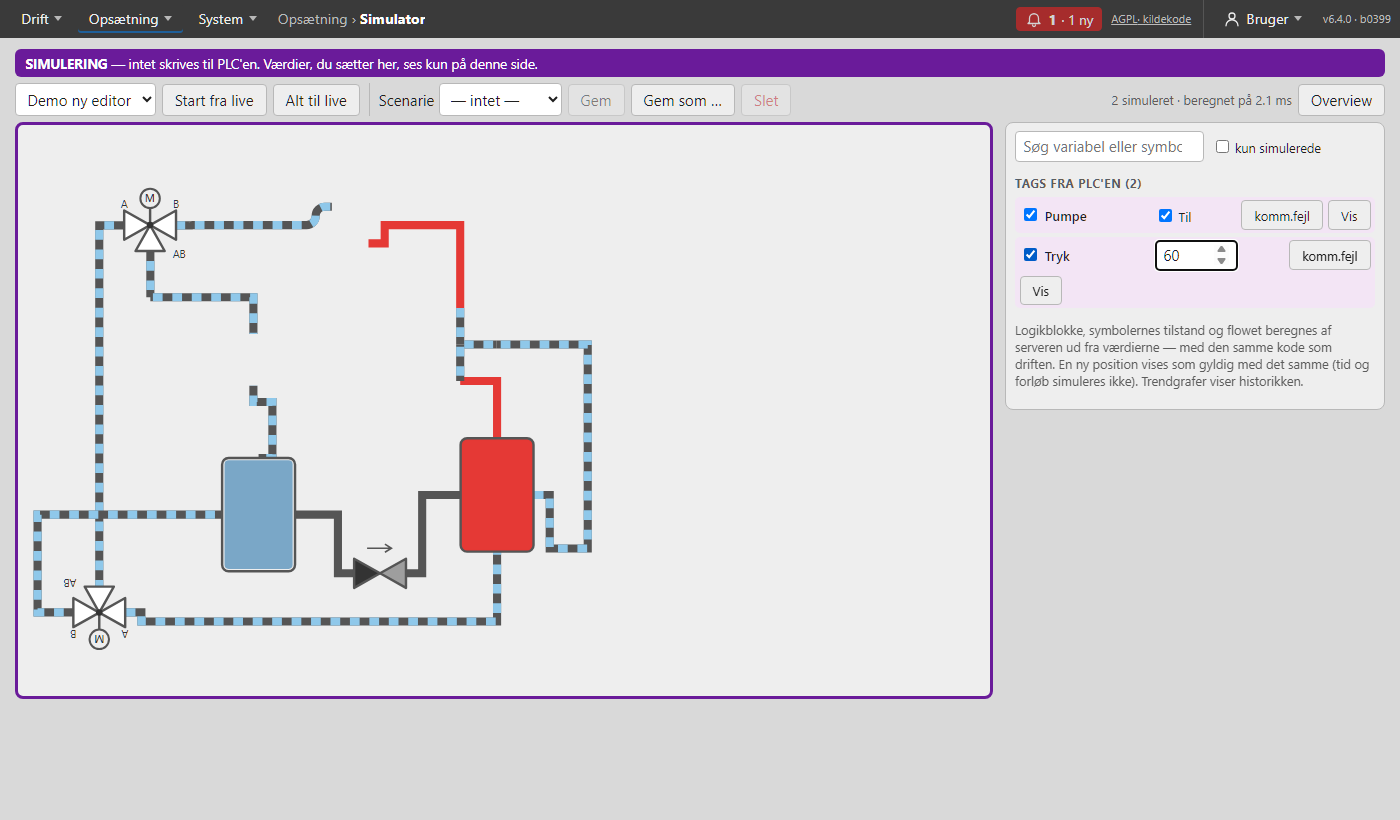
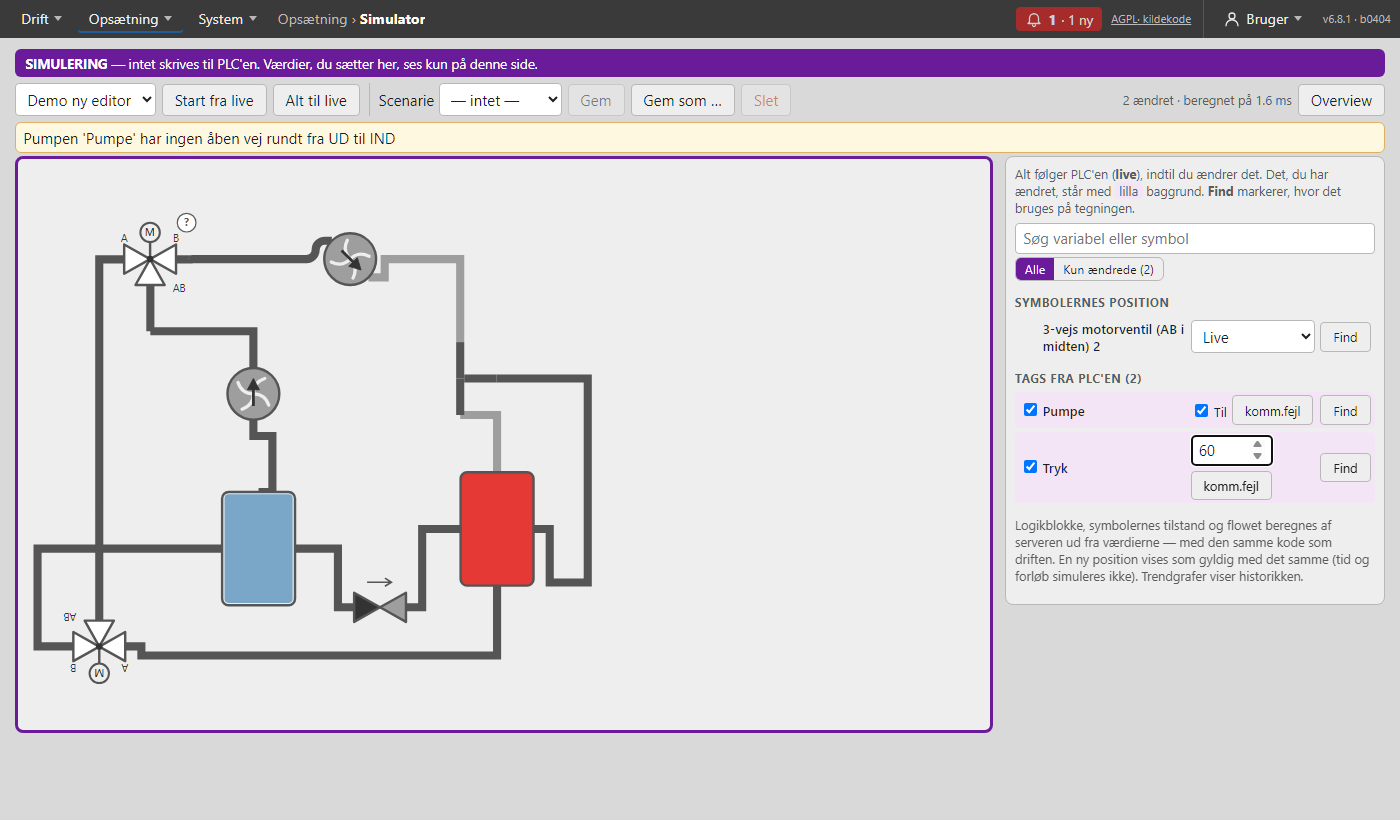
v6.8.1-b0404: fix — "Over 0"/"0" med ekstra grænser, meddelelser pr. tegning (advarsel gentages ikke), ryddelige animationsfarver og simulator-panel

diff --git a/frontend/src/pages/Simulator.svelte b/frontend/src/pages/Simulator.svelte
@@ -228,7 +228,7 @@
   <button onclick={saveAs} disabled={!drawingId}>Gem som …</button>
   <button class="danger" onclick={removeScenario} disabled={scenarioId === ''}>Slet</button>
   <span class="grow"></span>
-  {#if result}<span class="small muted">{nSim} simuleret · beregnet på {result.ms} ms</span>{/if}
+  {#if result}<span class="small muted">{nSim} ændret · beregnet på {result.ms} ms</span>{/if}
   <a class="btn" href={'#overview/' + drawingId}>Overview</a>
 </div>
 {#if error}<p class="msg err">{error}</p>{/if}
@@ -240,21 +240,27 @@
   <div class="drawing" bind:this={container}></div>
 
   <aside class="panel-sim" aria-label="Tegningens variabler">
-    <div class="row">
-      <input type="search" placeholder="Søg variabel eller symbol" bind:value={search} aria-label="Søg" />
-      <label class="opt small"><input type="checkbox" bind:checked={onlySim} /> kun simulerede</label>
+    <!-- v6.8.1 (Jan: "hvad er op og ned … hvad dækker kun simulerede over"): forklaring øverst, filteret hedder det, det gør -->
+    <p class="small muted intro">Alt følger PLC'en (<strong>live</strong>), indtil du ændrer det. Det, du har ændret, står med
+      <span class="chip">lilla</span> baggrund. <strong>Find</strong> markerer, hvor det bruges på tegningen.</p>
+    <input type="search" placeholder="Søg variabel eller symbol" bind:value={search} aria-label="Søg" />
+    <div class="seg" role="radiogroup" aria-label="Vis">
+      <button class:cur={!onlySim} role="radio" aria-checked={!onlySim} onclick={() => (onlySim = false)}>Alle</button>
+      <button class:cur={onlySim} role="radio" aria-checked={onlySim} onclick={() => (onlySim = true)} title="Kun de variabler og positioner, du har ændret (de andre følger PLC'en)">Kun ændrede ({nSim})</button>
     </div>
     {#if vars}
       {#if vars.positions.length}
         <h4>Symbolernes position</h4>
         {#each shownPos as p (p.element)}
           <div class="var" class:on={p.element in sim.positions}>
+            <span></span>
             <span class="nm" title={p.element}>{p.name}</span>
-            <select value={sim.positions[p.element] ?? ''} onchange={(e) => setPos(p.element, e.currentTarget.value)} aria-label="{p.name}: position">
-              <option value="">Live{p.live !== null ? ` (${p.labels[p.live] ?? p.live})` : ''}</option>
+            <select value={sim.positions[p.element] ?? ''} onchange={(e) => setPos(p.element, e.currentTarget.value)} aria-label="{p.name}: position"
+              title="Live = følger PLC'en (efter kolon: positionen lige nu). Vælg en position for at simulere den">
+              <option value="">Live{p.live !== null ? `: ${p.labels[p.live] ?? p.live}` : ''}</option>
               {#each p.labels as l, j (j)}<option value={j}>{l || `Position ${j + 1}`}{p.states?.[j] && p.states[j] !== l ? ` (${p.states[j]})` : ''}</option>{/each}
             </select>
-            <button class="small" onclick={() => highlight([p.element])} title="Vis symbolet på tegningen">Vis</button>
+            <button class="small" onclick={() => highlight([p.element])} title="Markér symbolet på tegningen">Find</button>
           </div>
         {/each}
       {/if}
@@ -267,6 +273,7 @@
           <label class="opt sw" title={on ? 'Simuleret — tryk for at følge PLC\'en igen' : 'Følger PLC\'en — tryk for at simulere'}>
             <input type="checkbox" checked={on} onchange={(e) => setSim(t.name, e.currentTarget.checked, t)} aria-label="{t.name}: simulér" /></label>
           <span class="nm" title={[t.description, `PLC: ${t.plc}`, ...t.used].filter(Boolean).join('\n')}>{t.name}</span>
+          <span class="vals">
           {#if !on}
             <span class="live small muted">live: {liveText(t.live, t.unit)}</span>
           {:else if v === null}
@@ -283,9 +290,9 @@
             {/if}
             {#if t.unit}<span class="small muted">{t.unit}</span>{/if}
           {/if}
-          <span class="grow"></span>
           {#if on && v !== null}<button class="small" onclick={() => setValue(t.name, null)} title="Simulér en kommunikationsfejl på tagget">komm.fejl</button>{/if}
-          <button class="small" onclick={() => highlight(t.elements)} disabled={!t.elements.length} title={t.used.join('\n')}>Vis</button>
+          </span>
+          <button class="small" onclick={() => highlight(t.elements)} disabled={!t.elements.length} title={`Markér på tegningen:\n${t.used.join('\n')}`}>Find</button>
         </div>
       {:else}<p class="small muted">Ingen tags{search || onlySim ? ' passer til søgningen' : ''}.</p>{/each}
 
@@ -296,11 +303,12 @@
           <div class="var" class:on>
             <label class="opt sw"><input type="checkbox" checked={on} onchange={(e) => setSim(a.name, e.currentTarget.checked)} aria-label="{a.tag}: simulér alarm" /></label>
             <span class="nm" title={a.used.join('\n')}>{a.tag} <span class="muted small">({a.kind === 'unack' ? 'ikke kvitteret' : 'aktiv'})</span></span>
+            <span class="vals">
             {#if on}
               <label class="opt small"><input type="checkbox" checked={sim.values[a.name] === true} onchange={(e) => setValue(a.name, e.currentTarget.checked)} /> {sim.values[a.name] ? 'Ja' : 'Nej'}</label>
             {:else}<span class="live small muted">live: {liveText(a.live)}</span>{/if}
-            <span class="grow"></span>
-            <button class="small" onclick={() => highlight(a.elements)} disabled={!a.elements.length}>Vis</button>
+            </span>
+            <button class="small" onclick={() => highlight(a.elements)} disabled={!a.elements.length} title="Markér på tegningen">Find</button>
           </div>
         {/each}
       {/if}
@@ -321,9 +329,18 @@
   .panel-sim { max-height: calc(100vh - 11rem); overflow: auto; border: 1px solid var(--line); border-radius: 8px; padding: .5rem .6rem;
     background: var(--panel, #fff); display: flex; flex-direction: column; gap: .25rem; }
   .panel-sim h4 { margin: .6rem 0 .2rem; font-size: .8rem; text-transform: uppercase; letter-spacing: .04em; color: var(--muted); }
-  .var { display: flex; align-items: center; gap: .35rem; padding: .2rem .3rem; border-radius: 5px; flex-wrap: wrap; }
+  /* v6.8.1: faste kolonner — afkrydsning, navn, værdi, Find — så rækkerne flugter og Find aldrig ryger ned på en ny linje */
+  .var { display: grid; grid-template-columns: 1.2rem minmax(6rem, 9.5rem) minmax(0, 1fr) auto; align-items: center; gap: .35rem;
+    padding: .2rem .3rem; border-radius: 5px; }
   .var.on { background: #f3e5f5; }
-  .var .nm { min-width: 7rem; font-weight: 600; font-size: .88rem; overflow-wrap: anywhere; }
+  .var .nm { font-weight: 600; font-size: .88rem; overflow-wrap: anywhere; }
+  .var select { min-width: 0; width: 100%; }
+  .vals { display: flex; align-items: center; gap: .35rem; flex-wrap: wrap; min-width: 0; }
+  .intro { margin: 0 0 .2rem; }
+  .chip { background: #f3e5f5; padding: 0 .3rem; border-radius: 4px; }
+  .seg { display: inline-flex; border: 1px solid var(--line); border-radius: 6px; overflow: hidden; align-self: flex-start; }
+  .seg button { border: none; border-radius: 0; background: transparent; padding: .2rem .6rem; font-size: .82rem; }
+  .seg button.cur { background: #6a1b9a; color: #fff; }
   .var .n { width: 5.5rem; }
   .var input[type='range'] { width: 7rem; }
   .sw { margin: 0; }

diff --git a/frontend/src/lib/AnimParams.svelte b/frontend/src/lib/AnimParams.svelte
@@ -44,21 +44,28 @@
     {#if (a.type === 'fill' || a.type === 'stroke')}
       {#if kind === 'pos'}
         {#each positions as pos, j}{@render colorInput(p.colors, j, pos.label)}{/each}
-      {:else}
-        {@render colorInput(p, 'on', kind === 'bool' ? 'Til' : p.at_least != null ? `≥ ${p.at_least}` : 'Over 0')}{@render colorInput(p, 'off', kind === 'bool' ? 'Fra' : p.at_least != null ? `< ${p.at_least}` : '0')}
-        {#if kind === 'num'}
-          <!-- v6.3.0 (Jan): hvornår et tal-tag er aktivt, fx ≥ 50 = aktiv, under 50 = ikke aktiv. Tomt = ≠ 0 -->
-          <label class="opt small" title="Fra hvilken værdi animationen er aktiv (aktiv-farven). Tomt: aktiv, når værdien ikke er 0">Aktiv når ≥
+      {:else if kind === 'num'}
+        <!-- v6.8.1 (Jan: "rodebutik"): én række pr. værdiområde — fra-farven, aktiv-farven og de ekstra grænser — i stigende orden.
+             Aktiv-grænsen (v6.3.0) står i aktiv-rækken: tom = aktiv, når værdien ikke er 0. -->
+        <div class="bands small">
+          <span class="bh">Værdi</span><span class="bh">Farve</span><span></span>
+          <span class="bv">{p.at_least != null ? `under ${p.at_least}` : '0'}</span>
+          <span class="bc"><input type="color" bind:value={p.off} aria-label="Farve, når den ikke er aktiv" />{@render swatches(p, 'off')}</span>
+          <span class="muted">ikke aktiv</span>
+          <span class="bv"><label class="opt" title="Fra hvilken værdi animationen er aktiv. Tomt: aktiv, når værdien ikke er 0">≥
             <input class="n" value={p.at_least ?? ''} placeholder="≠ 0" aria-label="Aktiv når værdien er mindst"
-              onchange={(e) => { const v = e.currentTarget.value.trim(); p.at_least = v === '' ? null : num(v, p.at_least ?? 0); }} /></label>
-        {/if}
-        {#if kind === 'num'}
+              onchange={(e) => { const v = e.currentTarget.value.trim(); p.at_least = v === '' ? null : num(v, p.at_least ?? 0); }} /></label></span>
+          <span class="bc"><input type="color" bind:value={p.on} aria-label="Farve, når den er aktiv" />{@render swatches(p, 'on')}</span>
+          <span class="muted">aktiv</span>
           {#each p.thresholds ?? [] as th, ti}
-            <span class="opt small">≥ <input class="n" value={th.value} onchange={(e) => (th.value = num(e.currentTarget.value, th.value))} />
-              <input type="color" bind:value={th.color} />{@render swatches(th, 'color')}<button class="small" onclick={() => p.thresholds.splice(ti, 1)} aria-label="Fjern grænse">✕</button></span>
+            <span class="bv">≥ <input class="n" value={th.value} aria-label="Grænse {ti + 1}" onchange={(e) => (th.value = num(e.currentTarget.value, th.value))} /></span>
+            <span class="bc"><input type="color" bind:value={th.color} aria-label="Farve ved grænse {ti + 1}" />{@render swatches(th, 'color')}</span>
+            <span><button class="small" onclick={() => p.thresholds.splice(ti, 1)} aria-label="Fjern grænse">✕</button></span>
           {/each}
-          <button class="small" onclick={() => (p.thresholds = [...(p.thresholds ?? []), { value: 0, color: '#b26a00' }])}>+ Grænse</button>
-        {/if}
+        </div>
+        <button class="small" onclick={() => (p.thresholds = [...(p.thresholds ?? []), { value: Math.max(0, ...(p.thresholds ?? []).map((t: { value: number }) => t.value + 10), Number(p.at_least ?? 0) + 10), color: '#b26a00' }])}>+ Grænse</button>
+      {:else}
+        {@render colorInput(p, 'on', kind === 'bool' ? 'Til' : 'Over 0')}{@render colorInput(p, 'off', kind === 'bool' ? 'Fra' : '0')}
       {/if}
     {:else if a.type === 'blink' || a.type === 'visible' || a.type === 'spin' || a.type === 'flicker'}
       {#if a.type === 'flicker'}
@@ -161,4 +168,8 @@
   .sw { width: 1rem; height: 1rem; padding: 0; margin: 0 0 0 .1rem; border: 1px solid var(--line); border-radius: 3px; cursor: pointer; }
   .sw.cur { outline: 2px solid var(--accent); outline-offset: 1px; }
   .params :global(select) { width: auto; max-width: 24em; }
+  .bands { display: grid; grid-template-columns: auto auto 1fr; gap: .25rem .6rem; align-items: center; flex-basis: 100%; }
+  .bh { font-size: .72rem; text-transform: uppercase; letter-spacing: .04em; color: var(--muted, #666); }
+  .bv { display: inline-flex; align-items: center; gap: .3rem; white-space: nowrap; }
+  .bc { display: inline-flex; align-items: center; gap: .15rem; flex-wrap: wrap; }
 </style>

diff --git a/frontend/src/pages/DrawEditor.svelte b/frontend/src/pages/DrawEditor.svelte
@@ -1079,8 +1079,14 @@
   const isActive = $derived(current !== null && loadedVersion === current.active_version);
   // Meddelelser (v4.20.1): systemets beskeder (før en gul bjælke over tegningen) samles her og vises i en boks, når man trykker på
   // *Meddelelser* i den øverste linje — som alarmklokken i topmenuen. Nye beskeder gør knappen orange; advarsler åbner boksen.
-  interface Msg { id: number; at: number; text: string; extra: string[]; warn: boolean }
+  // v6.8.1 (Jan): hver meddelelse hører til en tegning, og kun den åbne tegnings meddelelser vises (resten kan slås til)
+  interface Msg { id: number; at: number; text: string; extra: string[]; warn: boolean; drawing: string | null }
   let messages = $state<Msg[]>([]);
+  let msgAll = $state(false);
+  const shownMessages = $derived(msgAll ? messages : messages.filter((m) => m.drawing === null || m.drawing === (current?.id ?? null)));
+  const hiddenMessages = $derived(messages.length - shownMessages.length);
+  /** En lang liste af elementer: de første 8 og "+n flere". */
+  const shortList = (xs: string[]): string => (xs.length > 8 ? `${xs.slice(0, 8).join(', ')} +${xs.length - 8} flere` : xs.join(', '));
   let unread = $state(0);
   let msgOpen = $state(false);
   // Topmenuen (v6.2.0): menuerne Tegning, version, Forbindelser og kommentaren under Gem og udgiv ▾
@@ -1096,10 +1102,12 @@
       const r = report;
       const extra: string[] = [];
       if (r && (Object.keys(r.removed_elements).length || Object.keys(r.removed_attributes).length)) extra.push(`Renset ved gem: ${entries(r.removed_elements)} ${entries(r.removed_attributes)}`);
-      if (r?.orphaned_bindings?.length) extra.push(`Bindinger uden element nu: ${r.orphaned_bindings.join(', ')}`);
+      if (r?.orphaned_bindings?.length) extra.push(`Bindinger uden element nu: ${shortList(r.orphaned_bindings)}`);
       const warn = !!r?.orphaned_symbols?.length;
-      if (warn) extra.push(`Symboler sat op med guiden, som ikke længere findes: ${r!.orphaned_symbols!.join(', ')} — flyt eller fjern dem under Bindinger`);
-      messages = [{ id: ++msgSeq, at: Date.now(), text, extra, warn }, ...messages].slice(0, 30);
+      if (warn) extra.push(`${r!.orphaned_symbols!.length} symbolopsætning${r!.orphaned_symbols!.length === 1 ? '' : 'er'} fra guiden hører til elementer, der ikke længere findes: ${shortList(r!.orphaned_symbols!)} — flyt eller fjern dem under Bindinger`);
+      // rapporten hører kun til det gem, der lavede den — ikke til de næste meddelelser (før blev den gentaget under hver)
+      report = null;
+      messages = [{ id: ++msgSeq, at: Date.now(), text, extra, warn, drawing: current?.id ?? null }, ...messages].slice(0, 60);
       unread++;
       if (warn) msgOpen = true;
       info = '';
@@ -1314,15 +1322,18 @@
       Trends, ved kopiering af opsætning og i guiden). <button class="small" onclick={fixDuplicates} disabled={!ready}>Giv dem unikke navne</button>
     </div>
   {/if}
-  {#each messages as m (m.id)}
+  {#if hiddenMessages || msgAll}
+    <label class="opt small"><input type="checkbox" bind:checked={msgAll} /> Vis også andre tegningers meddelelser{hiddenMessages ? ` (${hiddenMessages} skjult)` : ''}</label>
+  {/if}
+  {#each shownMessages as m (m.id)}
     <div class="msg" class:warn={m.warn}>
-      <span class="small muted">{clock(m.at)}</span> {m.text}
+      <span class="small muted">{clock(m.at)}{msgAll && m.drawing && m.drawing !== current?.id ? ` · ${drawings.find((d) => d.id === m.drawing)?.name ?? m.drawing}` : ''}</span> {m.text}
       {#each m.extra as x}<div class="small muted">{x}</div>{/each}
     </div>
   {:else}
     {#if !dupNames.length && !migration && !bindReminder}<span class="small muted">Ingen meddelelser endnu. Her kommer systemets beskeder, fx når tegningen er gemt eller en rettelse er udført.</span>{/if}
   {/each}
-  {#if messages.length}<div class="mrow"><button class="small" onclick={() => (messages = [])}>Ryd meddelelser</button></div>{/if}
+  {#if shownMessages.length}<div class="mrow"><button class="small" onclick={() => { const gone = new Set(shownMessages.map((m) => m.id)); messages = messages.filter((m) => !gone.has(m.id)); }}>Ryd meddelelser</button></div>{/if}
 {/snippet}
 
 {#snippet snapMenu()}

diff --git a/frontend/src/lib/animate.ts b/frontend/src/lib/animate.ts
@@ -66,7 +66,10 @@ export function colorFor(value: unknown, params: Record<string, any>): string {
     return color;
   }
   if (thresholds.length && n !== null && typeof value !== 'boolean') {
-    let color: string = params.off ?? '#9e9e9e';
+    // v6.8.0 (Jan: "0" og "over 0" virkede ikke): uden aktiv-grænse er tallet aktivt, når det ikke er 0 — som felterne
+    // "Over 0" og "0" siger; de ekstra grænser lægges ovenpå (før blev "Over 0" aldrig brugt, når der var grænser)
+    // (kun guidens animationer, `nonzero_on`; bindinger fra siden Bindinger og forbindelsesgrupper: fra-farven under første grænse som før)
+    let color: string = params.nonzero_on && n !== 0 ? params.on ?? '#2e7d32' : params.off ?? '#9e9e9e';
     for (const t of thresholds) if (n >= t.value) color = t.color;
     return color;
   }
@@ -97,7 +100,7 @@ export function bindingActive(b: Pick<Binding, 'anim' | 'params'>, live: LiveVal
       const thresholds: { value: number }[] = p.thresholds ?? [];
       const n = numFor(v, p);
       if (hasLimit(p) && n !== null && typeof v !== 'boolean') return n >= Number(p.at_least);
-      if (thresholds.length && n !== null && typeof v !== 'boolean') return thresholds.some((t) => n >= Number(t.value));
+      if (thresholds.length && n !== null && typeof v !== 'boolean') return (!!p.nonzero_on && n !== 0) || thresholds.some((t) => n >= Number(t.value));
       return isOn(v);
     }
     case 'blink':

diff --git a/frontend/src/lib/animate.test.ts b/frontend/src/lib/animate.test.ts
@@ -49,6 +49,17 @@ describe('colorFor', () => {
     expect(colorFor(0, p)).toBe('blue');
     expect(colorFor(50, p)).toBe('red');
   });
+  it('guidens "Over 0"/"0" gælder også med ekstra grænser (v6.8.1, nonzero_on)', async () => {
+    const { bindingActive } = await import('./animate');
+    const p = { nonzero_on: true, on: 'dark', off: 'grey', thresholds: [{ value: 50, color: 'orange' }, { value: 80, color: 'red' }] };
+    expect(colorFor(0, p)).toBe('grey');
+    expect(colorFor(30, p)).toBe('dark');
+    expect(colorFor(60, p)).toBe('orange');
+    expect(colorFor(91, p)).toBe('red');
+    const lv = (value: unknown) => ({ value, quality: 'good' as const, ts: 0, error: null });
+    expect(bindingActive({ anim: 'fill', params: { ...p, when: true } }, lv(30))).toBe(true);
+    expect(bindingActive({ anim: 'fill', params: { ...p, when: true } }, lv(0))).toBe(false);
+  });
 });
 
 describe('fraction', () => {

diff --git a/frontend/src/lib/animPreview.ts b/frontend/src/lib/animPreview.ts
@@ -85,6 +85,7 @@ export function buildPreview(cfg: SymbolConfig, element: string, kindOf: KindOf,
     }
     if (a.only?.length) { params.only = a.only; params.pos_tag = POS_TAG; usesOnly = true; }
     if (a.when) params.when = true;
+    if ((a.type === 'fill' || a.type === 'stroke') && !pos) params.nonzero_on = true;   // som backendens config_bindings (v6.8.1)
     if (typeof params.dir_tag === 'string' && params.dir_tag) {
       const dir = params.dir_tag;
       params.dir_tag = nameOf(dir);

diff --git a/backend/tests/test_symbols.py b/backend/tests/test_symbols.py
@@ -701,3 +701,12 @@ def test_badge_defaults_on_and_can_be_switched_off(api):
     from app.services.symbols import symbol_view
     assert symbol_view(api.did, "V1", r.json()["config"], False)["badge"] is False
     assert symbol_view(api.did, "V1", {"op": "positions", "positions": []}, False)["badge"] is True
+
+
+def test_guide_color_anims_get_nonzero_on():
+    """v6.8.1: guidens farve-animationer (ikke pr. position) får nonzero_on, så "Over 0" gælder med ekstra grænser."""
+    from app.services.symbols import config_bindings
+    cfg = {"anims": [{"part": "all", "type": "fill", "src": "Tryk", "params": {"on": "#111", "off": "#999", "thresholds": [{"value": 50, "color": "#f80"}]}},
+                     {"part": "all", "type": "blink", "src": "Tryk", "params": {}}]}
+    out = config_bindings("d", "P1", cfg, set())
+    assert out[0]["params"]["nonzero_on"] is True and "nonzero_on" not in out[1]["params"]

diff --git a/backend/app/services/symbols.py b/backend/app/services/symbols.py
@@ -630,6 +630,8 @@ def config_bindings(drawing_id: str, element: str, cfg: dict[str, Any], parts: s
             params["pos_tag"] = pos_tag
         if a.get("when"):
             params["when"] = True
+        if a["type"] in ("fill", "stroke") and not params.get("pos"):
+            params["nonzero_on"] = True   # v6.8.1: guidens "Over 0"/"0" gælder også med ekstra grænser (animate.ts colorFor)
         if is_logic_ref(a["src"]):
             owner, bid = split_logic_ref(a["src"], element)
             tag = pseudo_tag(drawing_id, owner, f"logic:{bid}")

diff --git a/frontend/src/manual/llm/tegn.md b/frontend/src/manual/llm/tegn.md
@@ -95,7 +95,7 @@ Giv ventilen positioner (fx *AB → A* og *AB → B*), og lad tagget bestemme po
 Tjek at tegningens forbindelser er bundet og gemt (Flow-vinduet siger det, hvis de ikke er), at pumpen har **Pumpe** slået til med kapacitet over 0 og en flow-rate over 0, at der er en åben vej rundt fra pumpens UD tilbage til dens IND (ventilernes åbne veje i deres position, kontraventilens retning, restriktion over 0). Beskeder fra beregningen står øverst i Flow-vinduet; kortet *Flowberegning* på Status viser fejl.
 
 ## Hvor er Slet tegning, størrelsen, versionerne og kommentarfeltet i Tegn (topmenuen)?
-<!-- kilde: 07-tegn#m-skaermen sha:90c75340 -->
+<!-- kilde: 07-tegn#m-skaermen sha:20551fc4 -->
 Topmenuen i Tegn har tre dele. Til venstre åbner **tegningens navn** en menu med skift af tegning, **+ Ny tegning …**, **⤢ Størrelse …**, **Bindinger →** og **Slet tegning …**; ved siden af står **versionen** (fx *v4 kladde*), hvor du åbner en anden version eller udgiver den åbne. I midten står **Vis**, **Fang**, **Forbindelser** og **Flow**. Til højre zoom, **Meddelelser**, **Gem kladde** og **Gem og udgiv** — pilen **▾** på *Gem og udgiv* åbner kommentaren til versionen.
 
 ## Hvordan ser jeg flowet i Tegn, før jeg gemmer (live, simulering, prøv pumper og ventiler uden PLC)?
@@ -119,8 +119,8 @@ I trin 4 under **Flow** › **Restriktion**: vælg *en fast værdi* (skyder og t
 Under Opsætning › Symboler › **Ind/ud og veje** vælger du symboltypens **Flow-rolle**: forbruger, pumpe/kilde (fx en strømforsyning) eller rørstykke/ledning, og et **medie** (vand l/min, luft m³/h, el A). Standard-kapacitet og standard-restriktion (0,00–1,00) gælder, når et symbol ikke har sin egen flow-opsætning i guiden.
 
 ## Hvordan får en farve-animation på et tal-tag en grænse (aktiv ved ≥ 50, ikke aktiv under)?
-<!-- kilde: 10-symboler-og-guiden#m-animationer-i-guiden-trin-4 sha:2af73652 -->
-I guidens trin 4 ved animationen *Farve* (eller *Streg*) med et tal-tag: skriv grænsen i **Aktiv når ≥** (fx 50). Fra 50 og op vises aktiv-farven, under 50 fra-farven. Tomt felt = aktiv, når værdien ikke er 0. **+ Grænse** lægger flere farver ovenpå.
+<!-- kilde: 10-symboler-og-guiden#m-animationer-i-guiden-trin-4 sha:f6ef6ac8 -->
+I guidens trin 4 ved animationen *Farve* (eller *Streg*) med et tal-tag: skriv grænsen i **Aktiv når ≥** (fx 50). Fra 50 og op vises aktiv-farven, under 50 fra-farven. Tomt felt = aktiv, når værdien ikke er 0 (0 = fra-farven, over 0 = aktiv-farven). **+ Grænse** lægger flere farver ovenpå; aktiv-farven gælder op til den første grænse. Farverne står som en tabel med én række pr. værdiområde.
 
 ## Hvordan definerer jeg lavt og højt flow for en flowsensor og viser flowet med løbelysets fart, blink eller farve (baseline, flow-niveau)?
 <!-- kilde: 10-symboler-og-guiden#m3-flow-symbolets-rolle-i-flowberegningen sha:eaa3dd98 -->
@@ -131,7 +131,7 @@ I guidens trin 4 › **Flow** › **Målt flow**: vælg sensorens tag og skriv *
 De er faste værdier for symbolet (dets fysik): skriv tallet 0,00–1,00 i trin 4 › Flow, eller træk i skyderen. Sæt hak i **styret af et tag**, hvis PLC'en skal styre værdien, og angiv hvad der er 1,00 (fx 100 for en ventils åbning i %).
 
 ## Hvordan tester jeg en tegnings tilstande uden PLC (simulator, indskyd værdier, scenarier)?
-<!-- kilde: 07-tegn#m-simulator-proev-tegningens-tilstande sha:9d2c3472 -->
+<!-- kilde: 07-tegn#m-simulator-proev-tegningens-tilstande sha:5f965b5f -->
 Åbn **Opsætning › Simulator** (eller **Simulér** på Overview). Panelet viser alle variabler, tegningen bruger (tags, positioner, alarmer). Sæt hak ud for en variabel og vælg en værdi; tegningen viser resultatet med det samme — logik, symbolernes tilstand og flowet beregnes som i drift. **komm.fejl** viser en kommunikationsfejl, **Start fra live** kopierer PLC'ens værdier ind, og **Gem som …** gemmer et scenarie. Intet skrives til PLC'en.
 
 ## Hvordan definerer jeg en ventils tilstande (A igennem AB og B blokeret, 4-vejsventil A → B / C → D)?

diff --git a/frontend/src/manual/07-tegn.md b/frontend/src/manual/07-tegn.md
@@ -12,7 +12,7 @@
   - **til højre** står **zoom** (−, +, ⤢ tilpas), **Meddelelser**, **Gem kladde** og **Gem og udgiv**. Pilen **▾** på *Gem og udgiv* åbner **kommentaren til versionen**; en grøn prik viser, at der er skrevet en.
 
   På en smal skærm bliver teksterne kortere (*Forb.*, 🔔, *Kladde*, *Udgiv*), så linjen ikke ombrydes.
-- **Meddelelser**: systemets beskeder om tegningen (fx at den er gemt og udgivet, at der er renset noget ved gem, eller en advarsel) samles i en boks, der åbner, når du trykker på knappen — som alarmklokken i topmenuen. Et **orange tal** viser, hvor mange nye der er; en **advarsel** åbner boksen af sig selv. Dublerede symbolnavne står øverst i boksen med en knap, der giver dem unikke navne. **Ryd meddelelser** tømmer listen.
+- **Meddelelser**: systemets beskeder om tegningen (fx at den er gemt og udgivet, at der er renset noget ved gem, eller en advarsel) samles i en boks, der åbner, når du trykker på knappen — som alarmklokken i topmenuen. Et **orange tal** viser, hvor mange nye der er; en **advarsel** åbner boksen af sig selv. Dublerede symbolnavne står øverst i boksen med en knap, der giver dem unikke navne. Boksen viser kun meddelelserne for den **åbne tegning**; **Vis også andre tegningers meddelelser** viser resten. **Ryd meddelelser** tømmer den åbne tegnings liste.
 - **Værktøjslinjen til venstre**: **Fortryd** og **Gentag** øverst, derefter værktøjerne **Vælg** (V), **Forbindelse** (O), **Linje** (L), **Rektangel** (R), **Ellipse** (E), **Sti** (P), **Frihånd** (F), **Tekst** (T), **Polygon** (Y), **Stjerne** (S), **Regulær polygon** (N), **Bue** (B) og **Billede**. Bogstavet er genvejstasten.
 - **Tegnefladen** i midten. **Ctrl + musehjul** zoomer, og **mellemrum** eller **midterknappen** + træk flytter udsnittet.
 - **Linjen i bunden** forklarer, hvordan det valgte værktøj bruges (fx *Rektangel: træk for at tegne · Shift = kvadrat · Esc = tilbage til Vælg*).
@@ -269,8 +269,9 @@ Har du en tegning, hvor pumper, ventiler og etiketter er tegnet som almindelige 
   - et tal i feltet eller med skyderen (fra tagets min/max);
   - en position i listen.
 
-  Uden hak følger variablen PLC'en (*live*).
-- **komm.fejl** viser, hvordan tegningen ser ud, når tagget har en kommunikationsfejl. **Vis** markerer de symboler, der bruger variablen.
+  Uden hak følger variablen PLC'en (*live*). En position står på **Live: …** (efter kolon: positionen lige nu), indtil du vælger en anden.
+- Det, du har ændret, står med **lilla** baggrund. **Alle** / **Kun ændrede** øverst i panelet viser alle variabler eller kun dem, du har ændret.
+- **komm.fejl** viser, hvordan tegningen ser ud, når tagget har en kommunikationsfejl. **Find** markerer de symboler, der bruger variablen.
 - **Start fra live** kopierer PLC'ens værdier ind som simulerede, så du kan ændre én ting ad gangen. **Alt til live** slår simuleringen fra.
 - **Scenarier:** **Gem som …** gemmer de simulerede værdier med et navn (fx *Pumpe 2 fejl*). Vælg et scenarie for at hente det igen, **Gem** opdaterer det, og **Slet** fjerner det. Scenarierne gemmes pr. tegning og følger med i backup.
 - Serveren beregner **logikblokke**, **symbolernes tilstand** og **flowet** ud fra værdierne med den samme kode som driften, så løbelys, farver, blink og tilstandsmærker vises, som de ville i drift.

diff --git a/BUGS.md b/BUGS.md
@@ -5,6 +5,8 @@ Status: `open` | `investigating` | `fixed`
 
 ---
 
+- [fixed] v6.8.1 — **Farverne "Over 0" og "0" virkede ikke, når en farve-animation på et tal havde ekstra grænser** (Jan 2026-11-13, tanken med *symbolets flow*, ≥ 50 orange, ≥ 80 rød). **Årsag:** med grænser og et tomt *Aktiv når* brugte `animate.colorFor` fra-farven helt op til første grænse; *Over 0* blev aldrig brugt. `bindingActive` regnede først animationen for aktiv fra første grænse, så med *passiv* blev 1–49 vist som tegnet. **Rettelse:** guidens farve-animationer får `nonzero_on` (`symbols.config_bindings`, `animPreview.ts`): 0 = fra-farven, over 0 = aktiv-farven, grænserne ovenpå. Bindinger fra siden *Bindinger* og forbindelsesgrupper er uændrede. Tests: `animate.test.ts`, `test_symbols.py`.
+- [fixed] v6.8.1 — **Samme advarsel gentaget under hver meddelelse i Tegn** (Jan 2026-11-13). Advarslen var "Symboler sat op med guiden, som ikke længere findes: …". **Årsag:** rapporten fra sidste gem (`report`) blev hængende og blev sat under hver ny meddelelse, også "Symbolet er opsat". **Rettelse:** rapporten bruges kun af den meddelelse, gemmet laver. Meddelelserne hører nu til en tegning, og kun den åbne tegnings vises (de andre kan slås til). Lange lister afkortes (*+n flere*).
 - [fixed] v6.6.0 — **Tabeller med indtastning fyldte hele skærmens bredde** (Jan 2026-11-13). Fx stod ✕ og *Del* i punkt-tabellen i *Ind/ud og veje* langt ude til højre på en stor skærm. **Årsag:** den globale regel `table { width: 100% }` i `app.css` gælder også opsætningstabeller. **Rettelse (hele klassen):** tabeller med felter i rækkerne fylder kun det, indholdet behøver; lister uden felter fylder stadig bredden.
 - [fixed] v6.3.0 — **Efter fjernelse af en PLC blev flowets tags hængende i symbolopsætningen** (reviewer 2026-11-13). Det gjaldt flow-rate, restriktion og målt flow. Guiden kunne derefter ikke gemme symbolet ("tagget findes ikke"). **Årsag:** `plc_removal.strip_config` ryddede signaler, logik, graf og animationer, men ikke `flow` (fra v6.1.0). **Rettelse:** `flow.rate/restrict/measured.src` ryddes, når tagget fjernes. Test: `test_review_fixes_plc_removal_clears_flow_tags`.
 - [fixed] v6.3.0 — **Forbindelsesgrupperne og portfarverne fulgte ikke med, når en symboltypes flow-profil blev ændret** (reviewer 2026-11-13, fundet før udgivelse). Dette gjaldt fx en egen type, der fik rollen rørstykke. **Årsag:** profilerne ligger i `meta`, som ikke tæller config-generationen op, så Overview og adgangen brugte de cachede bindinger. **Rettelse:** `set_symbol_flow` tæller generationen op. Test: `test_review_fixes_profile_change_reaches_the_view_at_once`.

diff --git a/CHANGELOG.md b/CHANGELOG.md
@@ -4,6 +4,15 @@ Nyeste øverst. Format: `## [version build NNNN] — YYYY-MM-DD — beskrivelse`
 
 ---
 
+## [6.8.1 build 0404] — 2026-11-13 — Rettelser: "Over 0"/"0" med grænser, meddelelser pr. tegning, ryddeligere animationsfarver og simulator-panel
+
+- **Fejl:** "Over 0" og "0" virkede ikke ved en farve-animation på et tal med ekstra grænser (BUGS.md). Guidens farve-animationer får `nonzero_on` (`backend/app/services/symbols.py config_bindings`, `frontend/src/lib/animPreview.ts`); `animate.ts colorFor`/`bindingActive`: 0 = fra-farven, over 0 = aktiv (og aktiv-farven), grænserne ovenpå. Bindinger fra siden *Bindinger* og forbindelsesgrupper er uændrede.
+- **Fejl:** advarslen om symbolopsætninger uden element blev gentaget under hver meddelelse (BUGS.md). `DrawEditor.svelte`: rapporten bruges én gang; meddelelser pr. tegning med *Vis også andre tegningers meddelelser*; lange lister afkortes.
+- **Animationens farver på et tal** (`AnimParams.svelte`): en tabel med én række pr. værdiområde (ikke aktiv / aktiv med grænsen / ekstra grænser). **+ Grænse** foreslår en værdi over den sidste grænse.
+- **Simulator-panelet** (`Simulator.svelte`) har nu faste kolonner (afkrydsning, navn, værdi, *Find*), en forklaring øverst og filteret **Alle / Kun ændrede (n)** i stedet for "kun simulerede". *Vis* hedder nu *Find*, og positioner viser *Live: …*.
+- Tests: `animate.test.ts`, `test_symbols.py`. Set i browseren: animationsfarverne i guiden og simulator-panelet. Meddelelsernes filter er kun bygget; det er ikke set med en tegning med fejlopsætninger.
+- Manual kap. 07 og 10 og LLM-tillæg.
+
 ## [6.8.0 build 0403] — 2026-11-13 — Tegn: vis de tags, symbolerne bruger
 
 Jan: "i editor vil jeg godt have en mulighed for at til og fra vælge at man også kan se de tags som er i brug ved de forskellige symboler".
